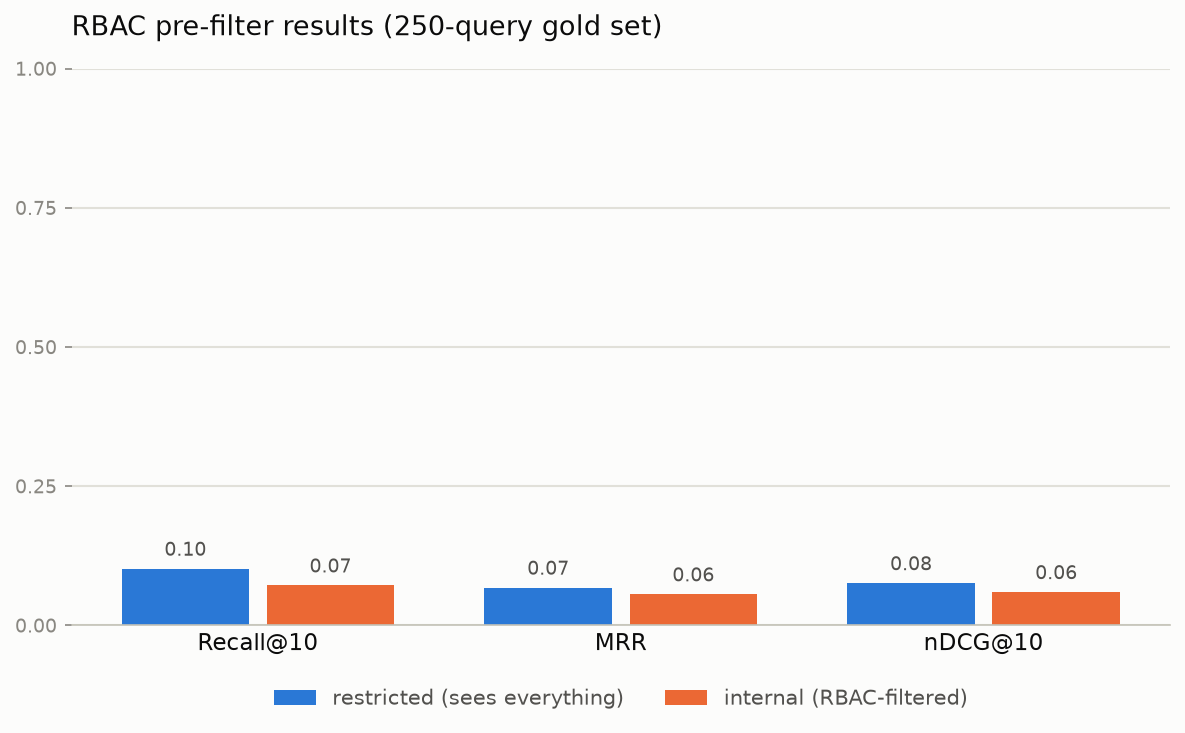
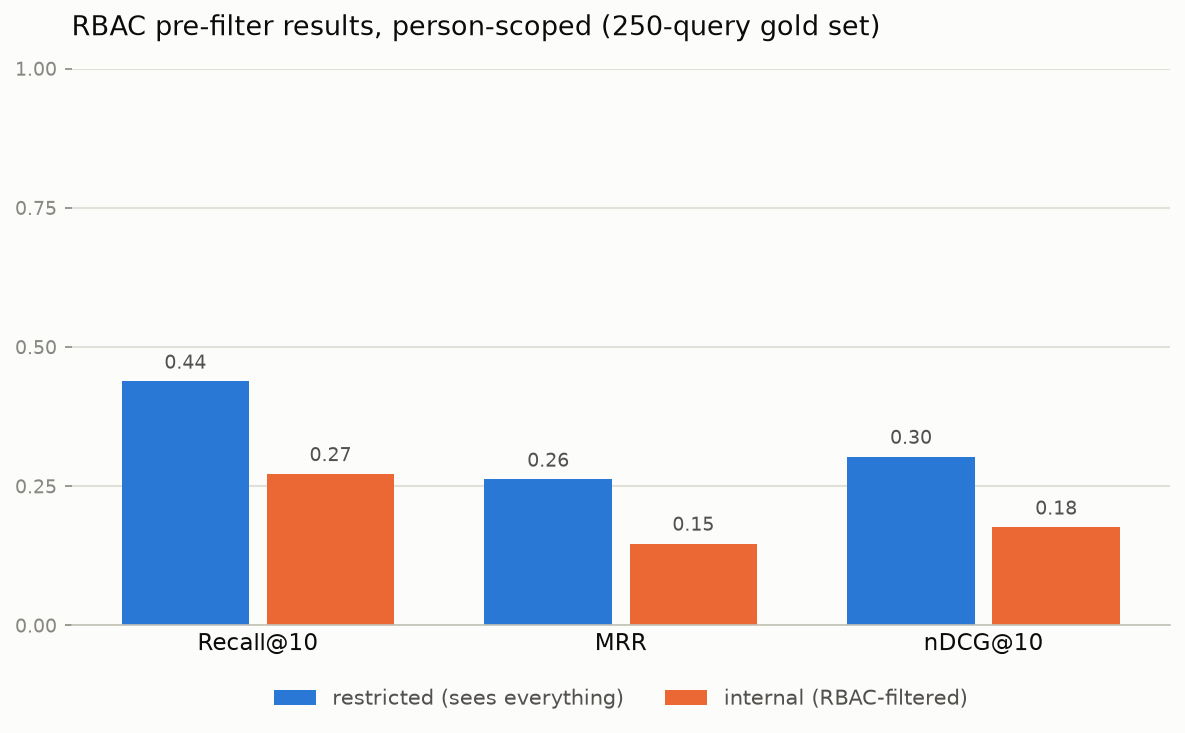
regenerate benchmark charts for person-scoped retrieval

diff --git a/scripts/generate_benchmark_charts.py b/scripts/generate_benchmark_charts.py
@@ -105,12 +105,33 @@ def main() -> None:
     grouped_bar_chart(
         metrics=["Recall@10", "MRR", "nDCG@10"],
         series={
+            "Naive dense": [0.430, 0.260, 0.300],
+            "Hybrid": [0.586, 0.432, 0.468],
+            "+ Cross-encoder rerank": [0.710, 0.588, 0.617],
+        },
+        title="Retrieval ladder, person-scoped (250-query gold set)",
+        output_filename="person_scoped_ladder.png",
+    )
+
+    grouped_bar_chart(
+        metrics=["Recall@10", "MRR", "nDCG@10"],
+        series={
             "Naive dense": [0.102, 0.068, 0.076],
             "Hybrid": [0.330, 0.177, 0.213],
             "+ Cross-encoder rerank": [0.306, 0.193, 0.219],
         },
-        title="Retrieval ladder (250-query gold set)",
-        output_filename="retrieval_ladder.png",
+        title="Retrieval ladder, unscoped (250-query gold set)",
+        output_filename="unscoped_ladder.png",
+    )
+
+    grouped_bar_chart(
+        metrics=["Recall@10", "MRR", "nDCG@10"],
+        series={
+            "restricted (sees everything)": [0.438, 0.262, 0.303],
+            "internal (RBAC-filtered)": [0.272, 0.147, 0.176],
+        },
+        title="RBAC pre-filter results, person-scoped (250-query gold set)",
+        output_filename="rbac_results.png",
     )
 
     grouped_bar_chart(
@@ -119,8 +140,8 @@ def main() -> None:
             "restricted (sees everything)": [0.102, 0.068, 0.076],
             "internal (RBAC-filtered)": [0.072, 0.056, 0.060],
         },
-        title="RBAC pre-filter results (250-query gold set)",
-        output_filename="rbac_results.png",
+        title="RBAC pre-filter results, unscoped (250-query gold set)",
+        output_filename="rbac_results_unscoped.png",
     )
 
     grouped_bar_chart(
